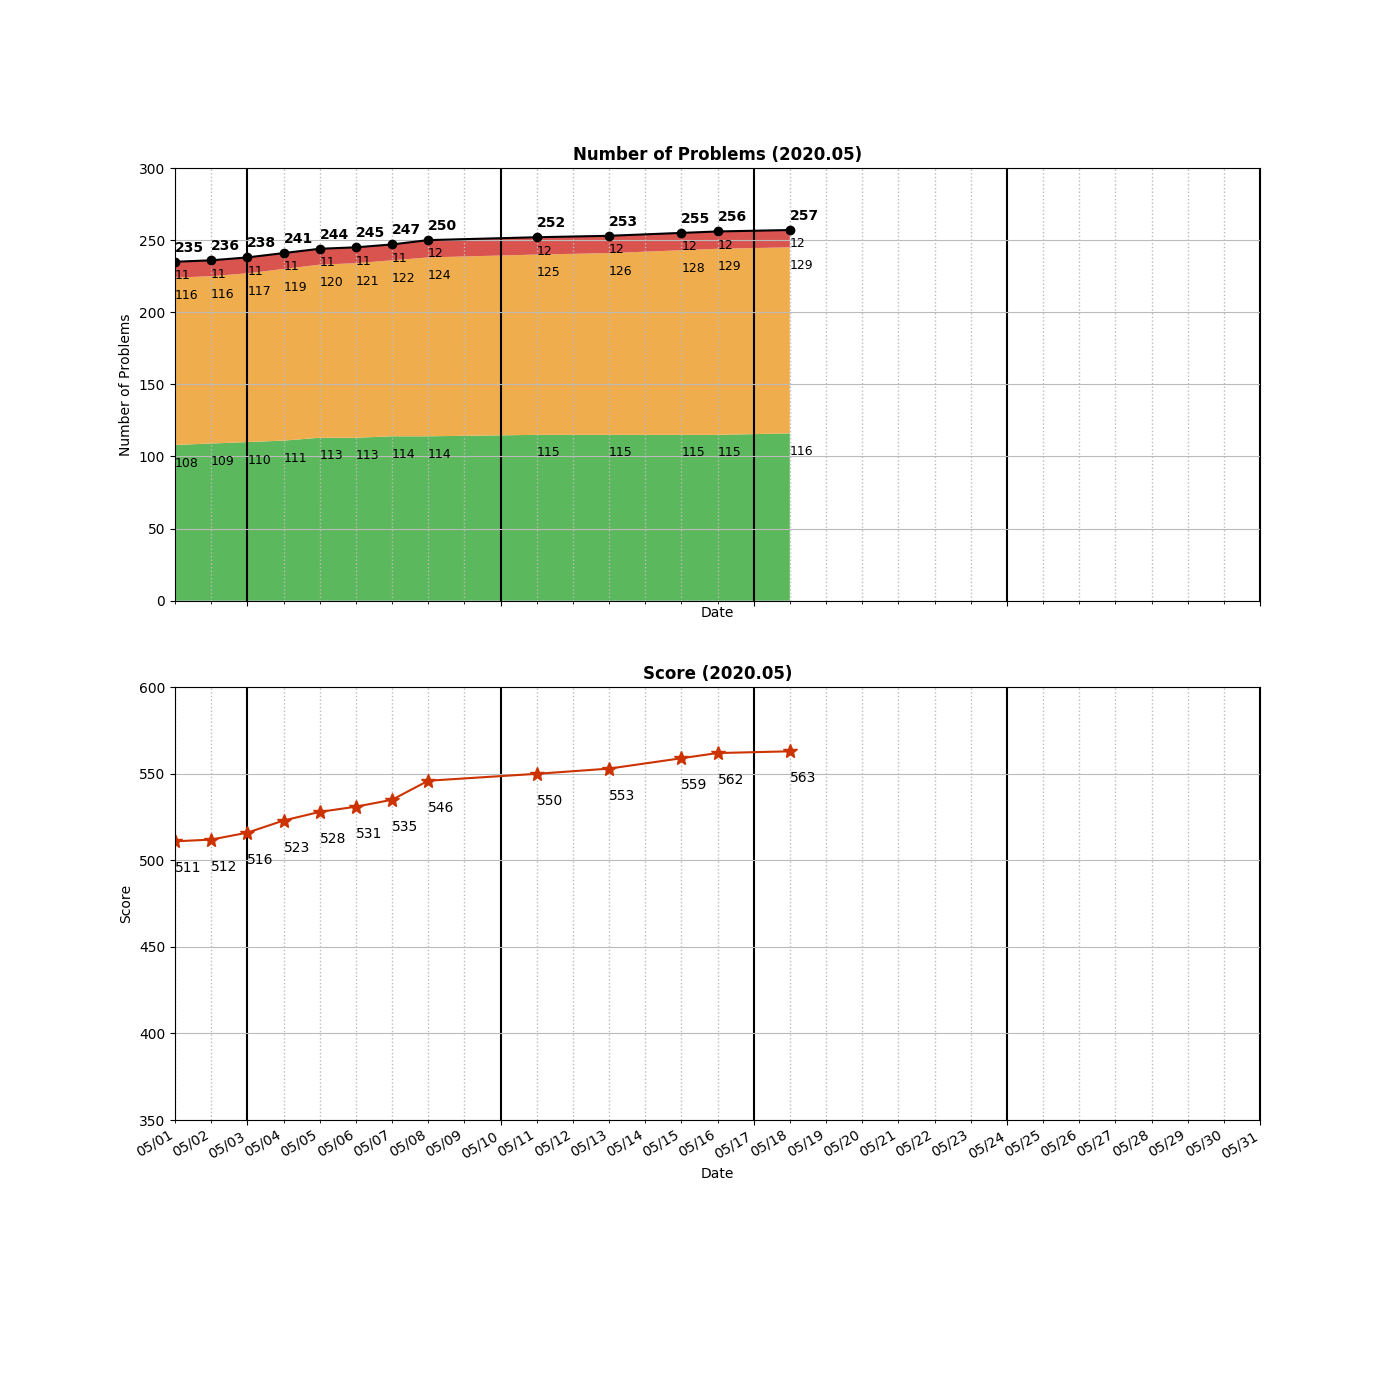
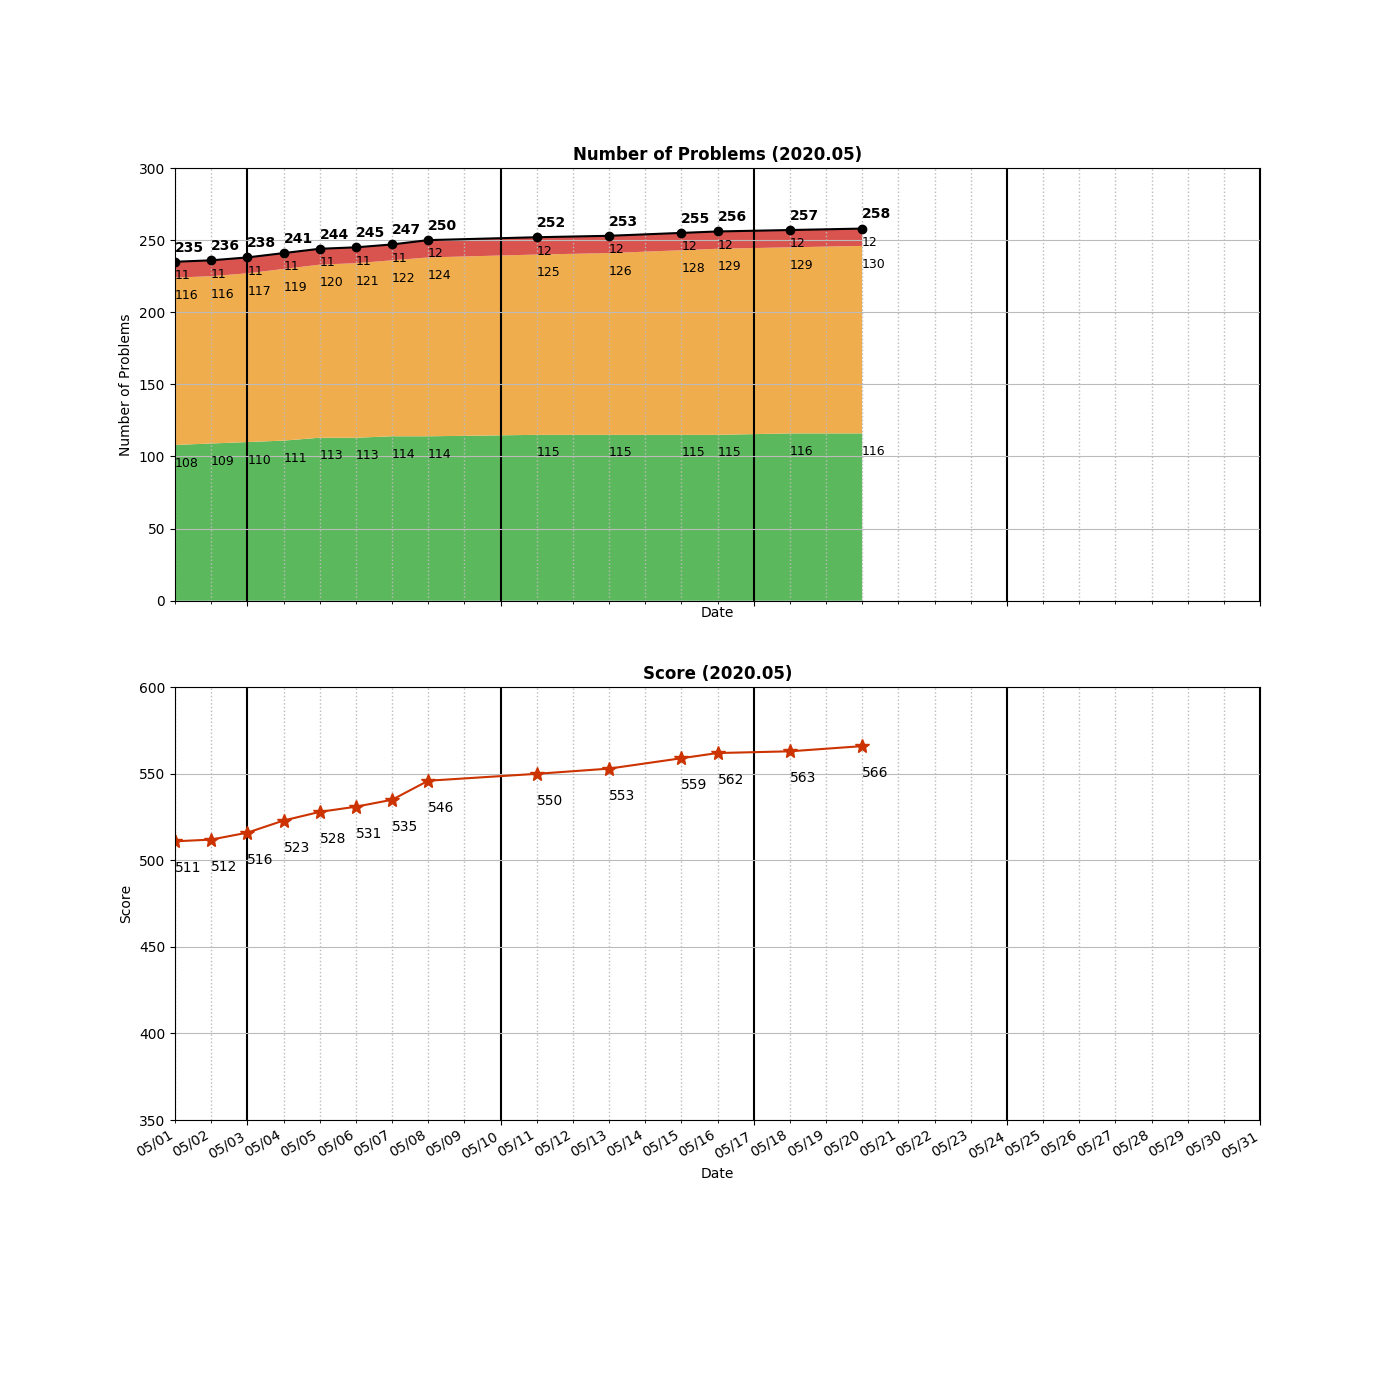
Added _0279_PerfectSquares.py

Changed region(s): [[0.5529, 0.1536, 0.645, 0.43], [0.6143, 0.5221, 0.645, 0.5529]]

diff --git a/algo/dp/_0279_PerfectSquares.py b/algo/dp/_0279_PerfectSquares.py
@@ -1,0 +1,73 @@
+class Solution:
+    
+    # Bottom-up DP 
+    def numSquares(self, n: int) -> int:
+        if n == 1:
+            return 1
+        
+        # Prepare the array for square numbers
+        arr = []
+        for e in range(1, n):
+            if pow(e, 2) > n:
+                break
+            arr.append(pow(e, 2))
+        
+        # Initialization
+        res = [0] * (n + 1)
+        res[1] = 1 
+        
+        # DP loop 
+        for i in range(2, n + 1):
+            minValue = float('inf')
+            for j in range(len(arr)):  #Loop all the number smaller than current   
+                if arr[j] > i:
+                    break
+                idx = i - arr[j]
+                if res[idx] < minValue:
+                    minValue = res[idx]
+                    res[i] = minValue + 1
+        # Debug 
+        # for i, v in enumerate(res):
+        #     print(i, ":", v)
+                    
+        return res[n]
+        
+    #===========================================
+    
+    # Memoization  
+    def numSquares1(self, n: int) -> int:
+        if n == 1:
+            return 1
+        
+        arr = []
+        for e in range(1, n):
+            if pow(e, 2) > n:
+                break
+            arr.append(pow(e, 2))
+        #arr = arr[::-1]
+        print(arr)
+        dic = {0:0, 1:1}
+       
+        ans = self.helper(arr, n, dic)
+        #print(dic)
+        return ans
+        
+    def helper(self, arr, target, memo):
+        #print("target:", target, memo)
+        if target == 0:
+            return 0
+        elif target == 1:
+            return 1
+        elif target < 0:
+            return 99999
+        
+        if target in memo:
+            return memo[target]
+        
+        minValue = float('inf')
+        for i in range(len(arr)):
+            minValue = min(minValue, 1 + self.helper(arr, target-arr[i], memo))
+            
+        memo[target] = minValue
+        #print("**memo[target]:", memo[target])
+        return memo[target]

diff --git a/README.md b/README.md
@@ -124,6 +124,7 @@ algo
 │   ├── _0213_HouseRobber2.py
 │   ├── _0221_MaximalSquare.py
 │   ├── _0256_PaintHouse.py
+│   ├── _0279_PerfectSquares.py
 │   ├── _0322_CoinChange.py
 │   ├── _0338_CountingBits.py
 │   ├── _0416_PartitionEqualSubsetSum.py
@@ -278,7 +279,7 @@ algo
     ├── _0127_WordLadder.py
     └── wordladder.py
 
-22 directories, 255 files
+22 directories, 256 files
 
 =====================================
 ============= Local Repo ============
@@ -423,6 +424,7 @@ _0264_UglyNumber2.py
 _0268_MissingNumber.py
 _0270_ClosestBinarySearchTreeValue.py
 _0278_FirstBadVersion.py
+_0279_PerfectSquares.py
 _0283_MoveZeroes.py
 _0290_WordPattern.py
 _0291_WordPattern2.py
@@ -537,7 +539,7 @@ _1391_CheckIfThereIsAValidPathInAGrid.py
 _1427_PerformStringShifts.py
 _305_NumberOfIslands2.py
 =====================================
-Num of Python Practice:  253
+Num of Python Practice:  254
 
 
 =====================================
@@ -683,6 +685,7 @@ Num of Python Practice:  253
  0268 Missing Number
  0270 Closest Binary Search Tree Value
  0278 First Bad Version
+ 0279 Perfect Squares
  0283 Move Zeroes
  0290 Word Pattern
  0291 Word Pattern II
@@ -802,10 +805,10 @@ Num of Python Practice:  253
  1427 Perform String Shifts
 =====================================
 Solved / Total (Easy)  :  116 /  407
-Solved / Total (Medium):  129 /  742
+Solved / Total (Medium):  130 /  742
 Solved / Total (Hard)  :   12 /  304
-Solved / Total (All)   :  257 / 1453
-Total Score            :  563
+Solved / Total (All)   :  258 / 1453
+Total Score            :  566
 =====================================
 
 ```
